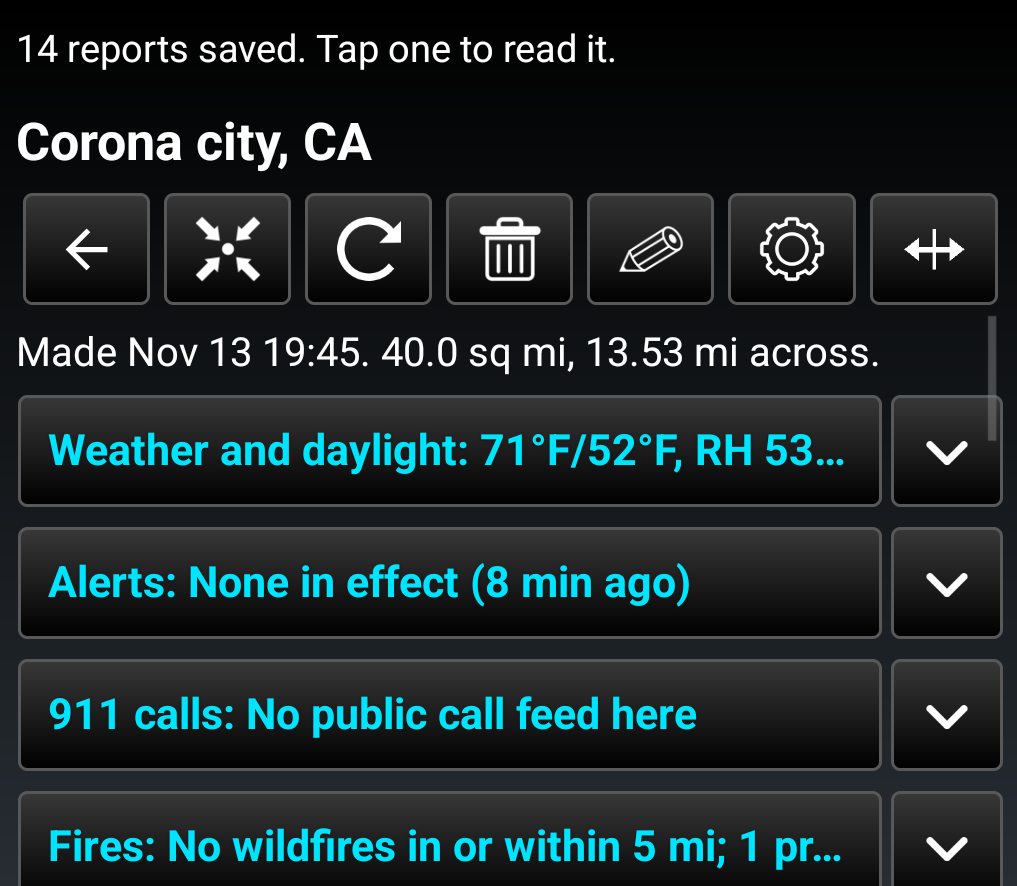
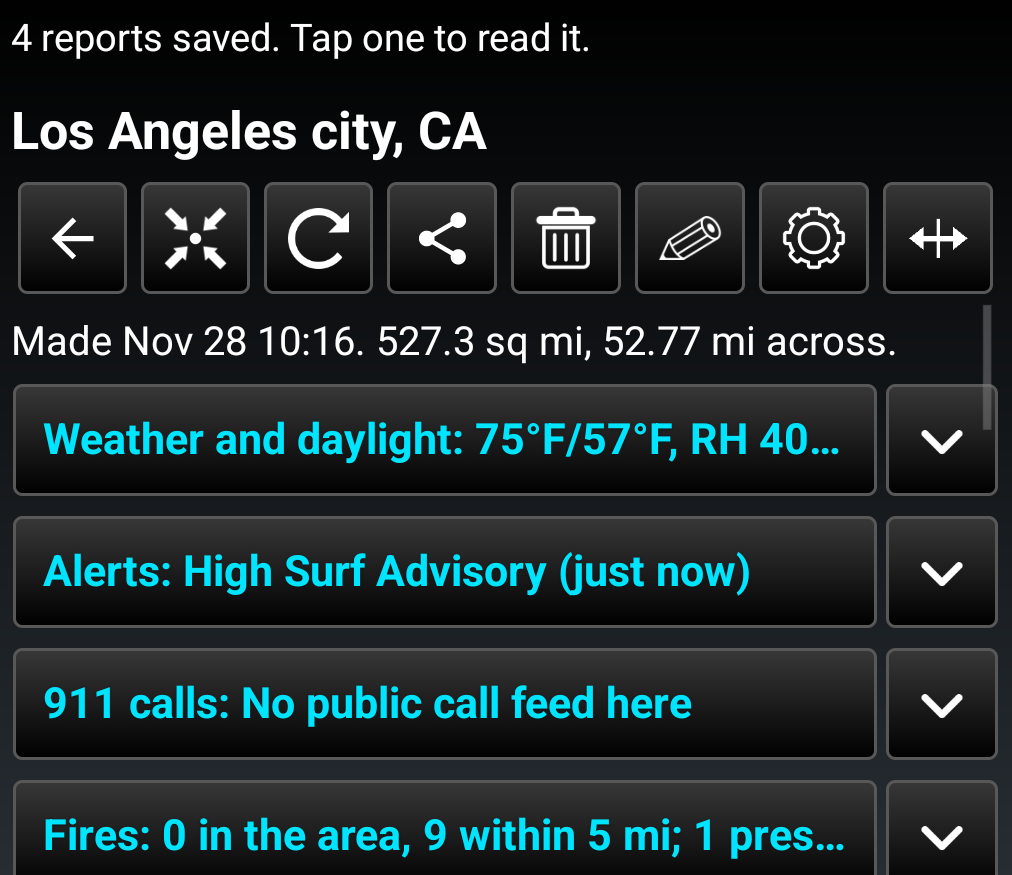
Sit Rep 0.9: README STATUS, Share as PDF in the guide and manual, manual stamp 0.9
New picture 19 (ATAK's send window with a Sit Rep PDF). Picture 03 retaken
from the dev build: the report toolbar now has the Share button.

diff --git a/plugins/SitRep/docs/USER_GUIDE.md b/plugins/SitRep/docs/USER_GUIDE.md
@@ -81,6 +81,7 @@ The buttons across the top:
 
 - **Back** to the list. **Go to** puts the area in view.
 - **Refresh** runs the live sections again for the same area.
+- **Share** sends the report as a PDF (see "Share a report as PDF" below).
 - **Delete** removes the report. **Rename** (the pencil) changes its name.
 - **Settings** (the gear). **Wide or half width** (the arrows).
 
@@ -147,6 +148,28 @@ section says "No public call feed here".
 
 Places show only at the zoom you set in Settings, so the map stays readable.
 The status line says when places are hidden.
+
+## Share a report as PDF
+
+Tap **Share** (the share icon) on a report to send it to your team as a PDF.
+
+![ATAK's send window with a Sit Rep PDF](screenshots/19_share.png)
+
+- Sit Rep makes a PDF of the report as it is now: the area, its center
+  (latitude, longitude and MGRS), its size, the time, your callsign, and every
+  section with the same answers the report shows.
+- The PDF is a snapshot. It does not update. Every page says when it was made.
+- ATAK's own send window opens. Pick **Contact** for people or teams,
+  **Select Server** or **Data Sync** for a TAK server, or **Export** to keep a
+  copy on this device.
+- The PDF goes as an ATAK data package. Your teammate finds it in
+  **Overlay Manager, Data Packages**, opens the package, and taps the open
+  button beside the PDF. It opens read-only in the device's PDF viewer.
+- Making the PDF needs no network. Sending needs whatever link the contact or
+  server needs.
+- Shelter contact details and anything marked CUI never go in the PDF.
+- A large report takes a few seconds. A window shows which page Sit Rep is
+  drawing. The PDFs stay in `atak/tools/sitrep/share` for a week.
 
 ## Settings
 

diff --git a/plugins/SitRep/README.md b/plugins/SitRep/README.md
@@ -49,6 +49,13 @@ and others), with an Open or Get button.
 _________________________________________________________________
 STATUS
 
+Version 0.9: Share as PDF. The Share button on a report makes a read-only
+PDF of it, a snapshot of one area at one time, and sends it as an ATAK data
+package through ATAK's own send window (contacts, teams, TAK servers, Data
+Sync, Export). It is made on the device with no network. It never carries
+shelter contact details or anything marked CUI. Shelter rows no longer say
+"Pets: null" when the shelter list leaves that field blank.
+
 Version 0.8: All ON / OFF replaces the Areas switch. It turns every
 report's Map switch on or off at once, outline and places together. When
 only some reports are on, it shows how many (All: 2 of 5), and a tap turns
